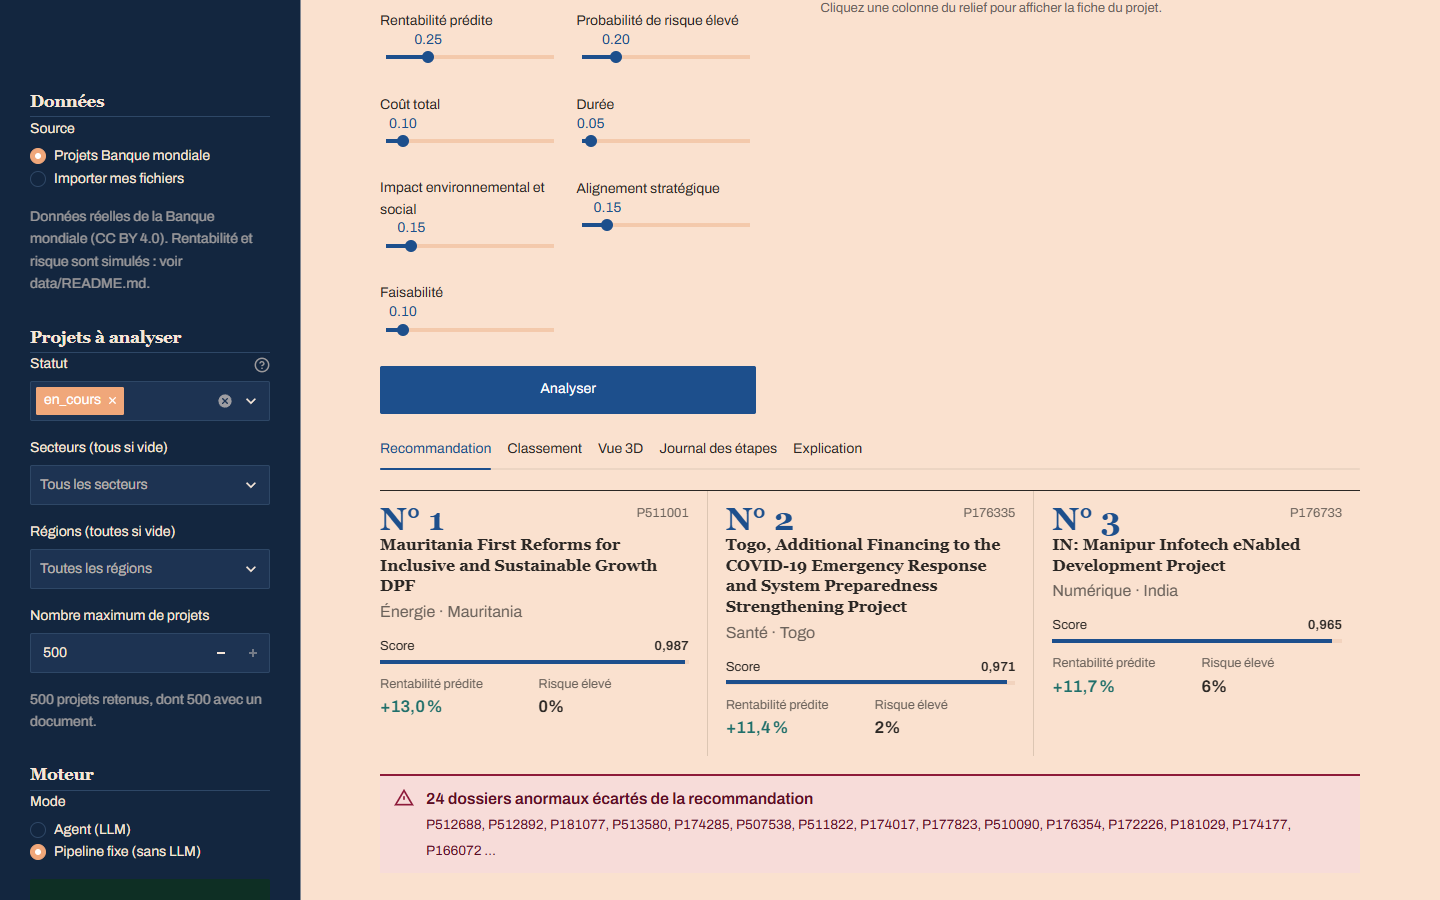
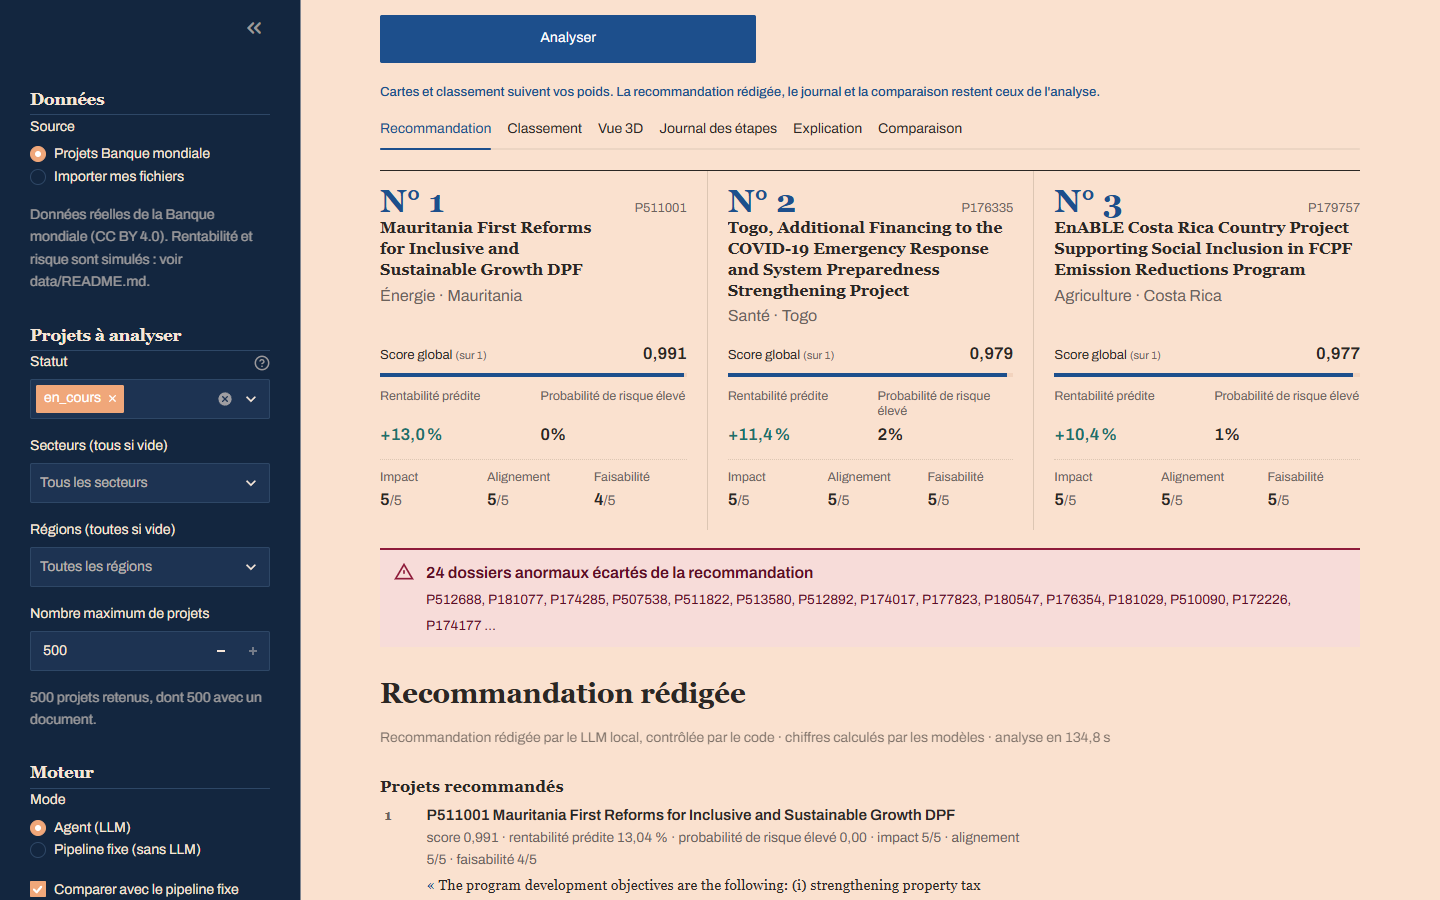
Onglet Recommandation : cartes responsives et alignées, recommandation rédigée rangée en sections

diff --git a/app/style.css b/app/style.css
@@ -80,24 +80,74 @@
 .fiche .drapeau { color: var(--bordeaux); font-weight: 600; }
 
 /* --- Cartes des projets recommandés ------------------------------------------ */
-.cartes { display: grid; grid-template-columns: repeat(auto-fit, minmax(240px, 1fr)); gap: 0; margin: 4px 0 18px;
-          border-top: 1px solid var(--encre); }
-.carte { padding: 12px 18px 14px 0; animation: entree 420ms var(--sortie) both; }
-.carte + .carte { border-left: 1px solid var(--filet); padding-left: 18px; }
+/* Trois colonnes quand la place le permet, sinon une seule : jamais deux cartes et une orpheline.
+   La largeur testée est celle du bloc (requête de conteneur), pas celle de l'écran. */
+.cartes { container-type: inline-size; margin: 4px 0 18px; border-top: 1px solid var(--encre); }
+.cartes-grille { display: grid; grid-template-columns: 1fr; }
+.carte { display: flex; flex-direction: column; padding: 14px 0 16px; animation: entree 420ms var(--sortie) both; }
+.carte + .carte { border-top: 1px solid var(--filet); }
 .carte:nth-child(2) { animation-delay: 60ms; }
 .carte:nth-child(3) { animation-delay: 120ms; }
-.carte-tete { display: flex; justify-content: space-between; font-size: 0.8rem; color: var(--encre-2); }
+@container (min-width: 46rem) {
+  .cartes-grille { grid-template-columns: repeat(3, minmax(0, 1fr)); }
+  .carte { padding: 14px 20px 16px; }
+  .carte:first-child { padding-left: 0; }
+  .carte:last-child { padding-right: 0; }
+  .carte + .carte { border-top: 0; border-left: 1px solid var(--filet); }
+  /* Deux lignes réservées aux libellés : un libellé qui passe à la ligne ne décale plus les chiffres. */
+  .mesures dt { min-height: 2.5em; }
+}
+.carte-tete { display: flex; justify-content: space-between; align-items: baseline; gap: 12px;
+              font-size: 0.8rem; color: var(--encre-2); }
 .carte-rang { font-family: var(--serif); font-size: 2rem; font-weight: 700; color: var(--bleu); line-height: 1; }
-.carte-nom { font-family: var(--serif); font-size: 1.12rem; font-weight: 600; line-height: 1.3; margin: 8px 0 2px; }
-.carte-lieu { font-size: 0.82rem; color: var(--encre-2); margin: 0 0 10px; }
-.jauge-ligne { display: flex; justify-content: space-between; font-size: 0.82rem; }
-.jauge { height: 4px; background: var(--papier-2); margin: 4px 0 10px; }
+.carte-nom { font-family: var(--serif); font-size: 1.12rem; font-weight: 600; line-height: 1.3; margin: 8px 0 2px;
+             text-wrap: balance; overflow-wrap: anywhere;
+             display: -webkit-box; -webkit-box-orient: vertical; -webkit-line-clamp: 4; line-clamp: 4; overflow: hidden; }
+.carte-lieu { font-size: 0.82rem; color: var(--encre-2); margin: 0 0 12px; }
+/* Les chiffres sont poussés en bas : ils restent à la même hauteur quelle que soit la longueur du nom. */
+.carte-chiffres { margin-top: auto; }
+.jauge-ligne { display: flex; justify-content: space-between; align-items: baseline; font-size: 0.82rem; }
+.jauge-ligne small, .notes small { color: var(--encre-2); font-weight: 400; }
+.jauge-ligne b { font-size: 1.05rem; }
+.jauge { height: 4px; background: var(--papier-2); margin: 5px 0 12px; }
 .jauge span { display: block; height: 100%; background: var(--bleu); transform-origin: left;
               animation: jauge 700ms var(--sortie) 120ms both; }
-.mesures { display: grid; grid-template-columns: 1fr 1fr; gap: 8px; font-size: 0.8rem; color: var(--encre-2); }
-.mesures b { display: block; font-size: 1.05rem; color: var(--encre); }
-.mesures b.hausse { color: var(--sarcelle); }
-.mesures b.baisse { color: var(--bordeaux); }
+.mesures, .notes { display: grid; gap: 8px 14px; margin: 0; }
+.mesures { grid-template-columns: 1fr 1fr; }
+.notes { grid-template-columns: repeat(3, minmax(0, 1fr)); margin-top: 10px; padding-top: 10px;
+         border-top: 1px dotted var(--filet); }
+.mesures dt, .notes dt { font-size: 0.78rem; line-height: 1.25; color: var(--encre-2); }
+.mesures dd, .notes dd { margin: 2px 0 0; font-size: 1.05rem; font-weight: 600; color: var(--encre); }
+.mesures dd.hausse { color: var(--sarcelle); }
+.mesures dd.baisse { color: var(--bordeaux); }
+
+/* --- Recommandation rédigée -------------------------------------------------------- */
+.redaction { max-width: 72ch; }
+.redaction section { padding: 12px 0 2px; }
+.redaction section + section { border-top: 1px solid var(--filet); margin-top: 6px; }
+.redaction h4 { font-family: var(--serif); font-size: 1.02rem; font-weight: 600; margin: 0 0 8px; padding: 0; }
+.redaction p, .redaction li { font-size: 0.95rem; line-height: 1.55; margin: 0 0 6px; overflow-wrap: anywhere; }
+.redac-preambule { padding: 10px 14px; background: #f7dcd9; color: #5c0f24; border-top: 2px solid var(--bordeaux); }
+.redac-liste { list-style: none; margin: 0; padding: 0; }
+.redac-projet { display: grid; grid-template-columns: 2rem minmax(0, 1fr); gap: 10px; padding: 6px 0; }
+.redac-projet + .redac-projet { border-top: 1px dotted var(--filet); }
+.redac-num { font-family: var(--serif); font-size: 1.35rem; font-weight: 700; color: var(--bleu); line-height: 1.2; }
+.redac-projet b { display: block; font-weight: 600; line-height: 1.35; }
+.redac-projet span { display: block; font-size: 0.86rem; color: var(--encre-2); margin-top: 2px; }
+.redac-controle ul { margin: 0; padding-left: 1.1rem; }
+.redac-controle { color: #5c0f24; }
+.redac-controle h4 { color: var(--bordeaux); }
+.redac-controle .redac-projet { grid-template-columns: minmax(0, 1fr); }
+.redaction figure { margin: 0 0 10px; }
+.stApp .stMarkdown .redaction blockquote, .stApp .stMarkdown .redaction blockquote * { color: var(--encre); opacity: 1 !important; } /* Streamlit grise les citations */
+.stApp .redaction blockquote { margin: 0; padding: 2px 0 0 1.4rem; border: 0; color: var(--encre);
+                        font-family: var(--serif); font-size: 1rem; line-height: 1.55; position: relative; }
+.redac-projet q { display: block; margin-top: 4px; font-family: var(--serif); font-size: 0.9rem; color: var(--encre); }
+.redac-projet q::before { content: "« "; color: var(--bleu); }
+.redac-projet q::after { content: " »"; color: var(--bleu); }
+.redaction blockquote::before { content: "«"; position: absolute; left: 0; top: -2px; font-size: 1.5rem;
+                                line-height: 1; color: var(--bleu); }
+.redaction figcaption { font-size: 0.8rem; color: var(--encre-2); margin: 4px 0 0 1.4rem; }
 
 /* --- Alerte ------------------------------------------------------------------ */
 .alerte { display: flex; gap: 12px; align-items: flex-start; padding: 10px 14px; margin: 0 0 18px;
@@ -149,6 +199,6 @@
 }
 
 @media (max-width: 640px) {
-  .carte + .carte, .duel-mode + .duel-mode { border-left: 0; padding-left: 0; border-top: 1px solid var(--filet); }
+  .duel-mode + .duel-mode { border-left: 0; padding-left: 0; border-top: 1px solid var(--filet); }
   .cote + .cote { border-left: 0; padding-left: 0; }
 }

diff --git a/app/composants.py b/app/composants.py
@@ -8,6 +8,7 @@ Les classes CSS utilisées ici sont définies dans app/style.css.
 from __future__ import annotations
 
 import html
+import re
 
 import pandas as pd
 
@@ -48,8 +49,15 @@ def bandeau_portefeuille(projets: pd.DataFrame, nb_documents: int, nb_charges: i
     return f'<div class="bandeau" role="list" aria-label="Indicateurs du portefeuille">{"".join(cases)}</div>'
 
 
+NOTES_CARTE = (("impact_env_social", "Impact"), ("alignement_strategique", "Alignement"), ("faisabilite", "Faisabilité"))
+
+
 def carte_projet(ligne: dict) -> str:
-    """Carte d'un projet recommandé : rang, score en jauge, rentabilité, risque, secteur et pays."""
+    """Carte d'un projet recommandé : rang, nom, score global, rentabilité, risque et les trois notes du texte.
+
+    Le nom peut faire une ligne ou quatre : les chiffres sont poussés en bas de la carte pour
+    rester alignés d'une carte à l'autre.
+    """
     score = float(ligne["score"])
     rentabilite = float(ligne["rentabilite_predite"])
     sens = "hausse" if rentabilite >= 0 else "baisse"
@@ -57,19 +65,26 @@ def carte_projet(ligne: dict) -> str:
     lieu = " · ".join(str(ligne[c]) for c in ("secteur", "pays") if ligne.get(c))
     numero = ligne.get("rang_retenu", ligne["rang"])  # rang parmi les projets retenus (dossiers anormaux écartés)
     premiere = " premiere" if numero == 1 else ""
+    nom = propre(ligne.get("nom", ""))
+    notes = "".join(
+        f'<div><dt>{titre}</dt><dd>{float(ligne[c]):.0f}<small>/5</small></dd></div>'
+        for c, titre in NOTES_CARTE if ligne.get(c) is not None and not pd.isna(ligne[c]))
     return (
-        f'<article class="carte{premiere}">'
+        f'<article class="carte{premiere}" aria-label="Projet recommandé n° {propre(numero)}">'
         f'<div class="carte-tete"><span class="carte-rang">N° {propre(numero)}</span>'
         f'<span class="carte-id">{propre(ligne["id_projet"])}</span></div>'
-        f'<p class="carte-nom">{propre(ligne.get("nom", ""))}</p>'
+        f'<p class="carte-nom" title="{nom}">{nom}</p>'
         f'<p class="carte-lieu">{propre(lieu)}</p>'
-        f'<div class="jauge-ligne"><span>Score</span><b>{nombre(score, 3)}</b></div>'
-        f'<div class="jauge" role="meter" aria-label="Score sur 1" aria-valuemin="0" aria-valuemax="1" '
+        f'<div class="carte-chiffres">'
+        f'<div class="jauge-ligne"><span>Score global <small>(sur 1)</small></span><b>{nombre(score, 3)}</b></div>'
+        f'<div class="jauge" role="meter" aria-label="Score global sur 1" aria-valuemin="0" aria-valuemax="1" '
         f'aria-valuenow="{score:.3f}"><span style="width:{score:.1%}"></span></div>'
-        f'<div class="mesures">'
-        f'<div><span>Rentabilité prédite</span><b class="{sens}">{rentabilite_texte}{ESPACE_FINE}%</b></div>'
-        f'<div><span>Risque élevé</span><b>{float(ligne["proba_risque"]):.0%}</b></div>'
-        f'</div></article>'
+        f'<dl class="mesures">'
+        f'<div><dt>Rentabilité prédite</dt><dd class="{sens}">{rentabilite_texte}{ESPACE_FINE}%</dd></div>'
+        f'<div><dt>Probabilité de risque élevé</dt><dd>{float(ligne["proba_risque"]):.0%}</dd></div>'
+        f'</dl>'
+        + (f'<dl class="notes" aria-label="Notes tirées du document, sur 5">{notes}</dl>' if notes else "")
+        + '</div></article>'
     )
 
 
@@ -106,7 +121,8 @@ def fiche_projet(ligne: dict) -> str:
 
 def cartes_recommandes(recommandes: pd.DataFrame) -> str:
     """Les cartes des projets recommandés, côte à côte."""
-    return f'<div class="cartes">{"".join(carte_projet(p) for p in recommandes.to_dict("records"))}</div>'
+    cartes = "".join(carte_projet(p) for p in recommandes.to_dict("records"))
+    return f'<div class="cartes"><div class="cartes-grille">{cartes}</div></div>'
 
 
 def alerte_anomalies(anormaux: list[str], limite: int = 15) -> str:
@@ -118,6 +134,122 @@ def alerte_anomalies(anormaux: list[str], limite: int = 15) -> str:
         titre = f"{len(anormaux)} dossiers anormaux écartés de la recommandation"
     return (f'<div class="alerte" role="alert">{ICONE_ALERTE}<div><strong>{propre(titre)}</strong>'
             f'<span>{propre(", ".join(anormaux[:limite]) + suite)}</span></div></div>')
+
+
+# --- Recommandation rédigée ---------------------------------------------------------
+# Le texte vient du LLM (ou du modèle de texte du pipeline fixe). Il suit à peu près le format
+# demandé par le prompt, mais un petit modèle varie : « 1. P… » ou « - rang 1, P… », chiffres
+# nommés ou non, un ou plusieurs passages. On le range en sections sans rien réécrire ; tout ce
+# qui n'est pas reconnu reste affiché tel quel, en paragraphe. Chaque morceau passe par `propre`.
+
+SECTIONS_REDACTION = (
+    (r"projets? recommandés?", "Projets recommandés", "projets"),
+    (r"alertes?|projets? à éviter", "Alertes", "alertes"),
+    (r"passages? (?:cités?|à l'appui)", "Passage cité", "passage"),
+    (r"limites?", "Limites", "limites"),
+    (r"contrôle automatique", "Contrôle automatique", "controle"),
+)
+_TETE = re.compile(r"^\s*(" + "|".join(motif for motif, _, _ in SECTIONS_REDACTION) + r")\b\s*(\([^)]*\))?\s*:?\s*(.*)$",
+                   re.IGNORECASE)
+_PROJET = re.compile(r"^\s*(?:[-•]\s*)?(?:(\d+)[.)]\s*|rang (\d+),\s*)?(P\d{3,}\b.*?)\s:\s(.+)$")
+_CITATION = re.compile(r"^\s*(?:[-•]\s*)?(?:\(?(P\d{3,})\)?\s*:\s*)?[«\"“]\s*(.+?)\s*[»\"”]?\s*$")
+_DECIMAL = re.compile(r"(?<=\d)\.(?=\d)")
+
+
+def _section_de(ligne: str) -> tuple[str, str, str, str] | None:
+    """Reconnaît une ligne de titre : (classe, titre affiché, reste de la ligne, précision entre parenthèses)."""
+    trouve = _TETE.match(ligne)
+    if not trouve:
+        return None
+    mot = trouve.group(1).lower()
+    for motif, titre, classe in SECTIONS_REDACTION:
+        if re.fullmatch(motif, mot, re.IGNORECASE):
+            return classe, titre, trouve.group(3), (trouve.group(2) or "").strip("() ")
+    return None
+
+
+def _phrase(texte: str) -> str:
+    """Une phrase du texte, avec une majuscule initiale et les décimales à la française."""
+    texte = _DECIMAL.sub(",", texte.lstrip("-• ").strip())
+    return texte[:1].upper() + texte[1:]
+
+
+def _mesures(brut: str) -> tuple[list[str], str]:
+    """Sépare les chiffres d'un projet et un éventuel extrait cité recopié dans la même ligne.
+
+    Le prompt demande « score, rentabilité prédite, probabilité de risque élevé, notes ». Quand
+    le LLM écrit les nombres sans leur nom (« 0.959, 10.63 %, 0.12, … »), le nom est déduit de la
+    forme du nombre : pourcentage = rentabilité, nombre sur 5 = note, nombre seul = score puis risque.
+    """
+    coupure = min((i for i in (brut.find("«"), brut.find('"'), brut.find("“")) if i >= 0), default=-1)
+    extrait = brut[coupure:].strip(" «»\"“”.") if coupure >= 0 else ""
+    morceaux = [m.strip() for m in brut[:coupure if coupure >= 0 else None].rstrip(" .,").split(", ") if m.strip()]
+    notes = iter(("impact", "alignement", "faisabilité"))
+    seuls = iter(("score", "probabilité de risque élevé"))
+    nommes = []
+    for morceau in morceaux:
+        if re.search(r"[A-Za-zÀ-ÿ]", morceau):
+            nommes.append(morceau)
+        elif morceau.endswith("%"):
+            nommes.append(f"rentabilité prédite {morceau}")
+        elif morceau.endswith("/5"):
+            nommes.append(f"{next(notes, 'note')} {morceau}")
+        else:
+            nommes.append(f"{next(seuls, '')} {morceau}".strip())
+    return [_DECIMAL.sub(",", m) for m in nommes], extrait
+
+
+def _ligne_html(classe: str, ligne: str, precision: str = "") -> str:
+    """Une ligne d'une section, mise en forme selon la section."""
+    if classe in ("projets", "controle"):
+        projet = _PROJET.match(ligne)
+        if projet and classe == "projets":
+            numero = projet.group(1) or projet.group(2) or ""
+            mesures, extrait = _mesures(projet.group(4))
+            tete = f'<span class="redac-num">{propre(numero)}</span>' if numero else ""
+            citation = f'<q>{propre(extrait)}</q>' if extrait else ""
+            return (f'<li class="redac-projet">{tete}<div><b>{propre(projet.group(3).strip())}</b>'
+                    f'<span>{propre(" · ".join(mesures))}</span>{citation}</div></li>')
+        return f"<li>{propre(_phrase(ligne))}</li>"
+    if classe == "passage":
+        citation = _CITATION.match(ligne)
+        if citation and (citation.group(1) or precision or "«" in ligne):
+            source = citation.group(1) or precision
+            pied = f"<figcaption>Document du projet {propre(source)}</figcaption>" if source else ""
+            return f"<figure><blockquote>{propre(citation.group(2).rstrip(' »”'))}</blockquote>{pied}</figure>"
+    return f"<p>{propre(_phrase(ligne))}</p>"
+
+
+def recommandation_redigee(texte: str) -> str:
+    """Le texte de la recommandation rangé en sections lisibles (titres, liste des projets, citation)."""
+    preambule, sections = [], []  # sections : [classe, titre, précision, lignes]
+    for brute in (texte or "").splitlines():
+        ligne = brute.strip()
+        if not ligne:
+            continue
+        tete = _section_de(ligne)
+        if tete:
+            classe, titre, reste, precision = tete
+            if sections and sections[-1][0] == classe:  # « Projets à éviter » après « Alertes » : même section
+                section = sections[-1]
+            else:
+                section = [classe, titre, precision, []]
+                sections.append(section)
+            if classe == "alertes" and reste and ligne.lower().startswith("projet"):
+                reste = ligne  # garder « Projets à éviter … » en entier
+            if reste:
+                section[3].append(reste)
+        elif sections:
+            sections[-1][3].append(ligne)
+        else:
+            preambule.append(ligne)
+    blocs = [f'<p class="redac-preambule">{propre(p)}</p>' for p in preambule]
+    for classe, titre, precision, lignes in sections:
+        contenu = "".join(_ligne_html(classe, ligne, precision) for ligne in lignes)
+        if classe in ("projets", "controle") and contenu.startswith("<li"):
+            contenu = f'<ol class="redac-liste">{contenu}</ol>' if classe == "projets" else f"<ul>{contenu}</ul>"
+        blocs.append(f'<section class="redac-{classe}"><h4>{propre(titre)}</h4>{contenu}</section>')
+    return f'<article class="redaction">{"".join(blocs)}</article>'
 
 
 def journal_etapes(etapes: list[dict]) -> str:

diff --git a/tests/test_app.py b/tests/test_app.py
@@ -107,3 +107,26 @@ def test_cartes_et_tableau_numerotent_les_projets_retenus():
     assert "N° 2" in carte and "N° 3" not in carte
     assert composants.rang_affiche({"rang": 2, "rang_retenu": pd.NA, "anomalie": True}) == "écarté"
     assert composants.rang_affiche({"rang": 3, "rang_retenu": 2, "anomalie": False}) == "2"
+
+
+def test_recommandation_redigee_rangee_en_sections_et_echappee():
+    import sys
+
+    sys.path.insert(0, str(Path(APP).parent))
+    import composants
+
+    texte = ("Projets recommandés :\n"
+             "1. P157929 Assam Inland Water Transport Project : 0.959, 10.63 %, 0.12, impact 4/5, alignement 4/5, "
+             "faisabilité 5/5.\n"
+             "Alertes : les dossiers <script>alert(1)</script> P121507.\n"
+             "Passage cité :\nP157929 : « This project has three components. »\n"
+             "Limites : cibles simulées.")
+    html = composants.recommandation_redigee(texte)
+    for titre in ("Projets recommandés", "Alertes", "Passage cité", "Limites"):
+        assert f"<h4>{titre}</h4>" in html
+    assert "score 0,959" in html and "rentabilité prédite 10,63 %" in html and "impact 4/5" in html
+    assert "<blockquote>This project has three components.</blockquote>" in html
+    assert "Document du projet P157929" in html
+    assert "<script>" not in html and "&lt;script&gt;" in html  # le texte du LLM n'est jamais lu comme du HTML
+    secours = composants.recommandation_redigee("L'agent n'a pas terminé (erreur du LLM).\nLimites : aucune.")
+    assert 'class="redac-preambule"' in secours

diff --git a/app/app.py b/app/app.py
@@ -155,8 +155,12 @@ def afficher_recommandation(resultat: dict) -> None:
     if anormaux:
         afficher_html(composants.alerte_anomalies(anormaux))
     st.subheader("Recommandation rédigée")
-    st.text(resultat["recommandation"])  # texte brut : on n'interprète pas le texte du LLM comme du Markdown
-    st.caption(f"Durée de l'analyse : {resultat['duree_s']:.1f} s")
+    redacteur = ("rédigée par le LLM local, contrôlée par le code" if resultat.get("mode") == MODE_AGENT
+                 else "rédigée par le pipeline fixe, sans LLM")
+    st.caption(f"Recommandation {redacteur} · chiffres calculés par les modèles · "
+               f"analyse en {resultat['duree_s']:.1f} s".replace(".", ","))
+    # Texte du LLM rangé en sections ; chaque morceau est échappé : rien n'est lu comme du HTML ou du Markdown.
+    afficher_html(composants.recommandation_redigee(resultat["recommandation"]))
 
 
 def afficher_classement(classement: pd.DataFrame) -> None:
@@ -293,6 +297,7 @@ def lancer_analyse(demande: str, projets: pd.DataFrame, documents: dict, mode: s
         else:
             resultat = pipeline_fixe(demande, projets, documents, poids_fixes)
         resultat["duree_s"] = time.perf_counter() - debut
+        resultat["mode"] = mode
         reference = None
         if comparer:
             debut = time.perf_counter()

diff --git a/README.md b/README.md
@@ -7,11 +7,11 @@
 
 École Centrale Casablanca, novembre 2026. Équipe de quatre ingénieurs.
 
-> **In English.** InvestMind is an AI agent that ranks investment projects and writes a justified recommendation. It runs fully offline: a local LLM (Qwen 2.5, 3B, via Ollama) plans the analysis and calls five tools built by the team, covering a supervised model (return and risk prediction, Ridge and LightGBM), an NLP module (criterion scoring with TF-IDF and keywords, passage retrieval with sentence embeddings), anomaly detection (Isolation Forest) and multi-criteria ranking (TOPSIS, AHP). It works on 2,000 real World Bank projects. The Streamlit app adds a 3D portfolio view and live re-weighting. Everything is tested (144 automated tests), evaluated without data leakage, and every choice of model was fixed before looking at the test set.
+> **In English.** InvestMind is an AI agent that ranks investment projects and writes a justified recommendation. It runs fully offline: a local LLM (Qwen 2.5, 3B, via Ollama) plans the analysis and calls five tools built by the team, covering a supervised model (return and risk prediction, Ridge and LightGBM), an NLP module (criterion scoring with TF-IDF and keywords, passage retrieval with sentence embeddings), anomaly detection (Isolation Forest) and multi-criteria ranking (TOPSIS, AHP). It works on 2,000 real World Bank projects. The Streamlit app adds a 3D portfolio view and live re-weighting. Everything is tested (145 automated tests), evaluated without data leakage, and every choice of model was fixed before looking at the test set.
 
 ![Application InvestMind : demande, poids, relief 3D du portefeuille de 500 projets](docs/images/application.png)
 
-| 2 000 | 4 | 5 | 144 | 31 |
+| 2 000 | 4 | 5 | 145 | 31 |
 |:---:|:---:|:---:|:---:|:---:|
 | projets réels de la Banque mondiale | domaines de l'IA réunis : supervisé, non supervisé, NLP, IA agentique | outils pilotés par un LLM local | tests automatiques | pull requests relues avant fusion |
 
@@ -136,7 +136,7 @@ On choisit les projets (jeu de la Banque mondiale ou fichiers importés), on éc
 ## Tests et reproduction
 
 ```
-python -m pytest                          # 138 tests, rapides : fausses fonctions, LLM remplacé par un faux client
+python -m pytest                          # 139 tests, rapides : fausses fonctions, LLM remplacé par un faux client
 $env:USE_MOCKS="0"; python -m pytest      # les mêmes tests avec les quatre modules de l'équipe
 python -m pytest -m llm                   # + 6 tests avec le vrai LLM (Ollama doit tourner)
 ```
@@ -163,7 +163,7 @@ prompts/      prompts de l'agent
 reports/      un dossier par rôle : résultats, figures, évaluations et brouillon du rapport
 scripts/      téléchargement et préparation des données, évaluations
 src/          agent, contrat, fausses fonctions et les modules des quatre rôles
-tests/        144 tests automatiques, lancés par GitHub Actions à chaque modification de main
+tests/        145 tests automatiques, lancés par GitHub Actions à chaque modification de main
 ```
 
 ## Limites

diff --git a/docs/architecture.md b/docs/architecture.md
@@ -164,4 +164,4 @@ Nuage de points Plotly (`scatter3d`) : rentabilité prédite, probabilité de ri
 
 ### Sécurité de l'affichage
 
-Le texte du LLM est affiché avec `st.text`, donc jamais lu comme du Markdown ou du HTML. Dans les blocs HTML, tout ce qui vient des données ou du LLM (noms de projets, CSV importé, arguments et résultats d'outils) passe par `composants.propre`, qui neutralise les balises. Un test le vérifie.
+Le texte du LLM est rangé en sections par `composants.recommandation_redigee` (projets recommandés en liste numérotée, alertes, passage cité, limites, contrôle automatique), sans rien réécrire : chaque morceau est échappé, donc jamais lu comme du Markdown ou du HTML. Les cartes des projets recommandés passent de trois colonnes à une seule selon la largeur du bloc (requête de conteneur), et leurs chiffres sont alignés en bas de carte. Dans les blocs HTML, tout ce qui vient des données ou du LLM (noms de projets, CSV importé, arguments et résultats d'outils) passe par `composants.propre`, qui neutralise les balises. Un test le vérifie.
